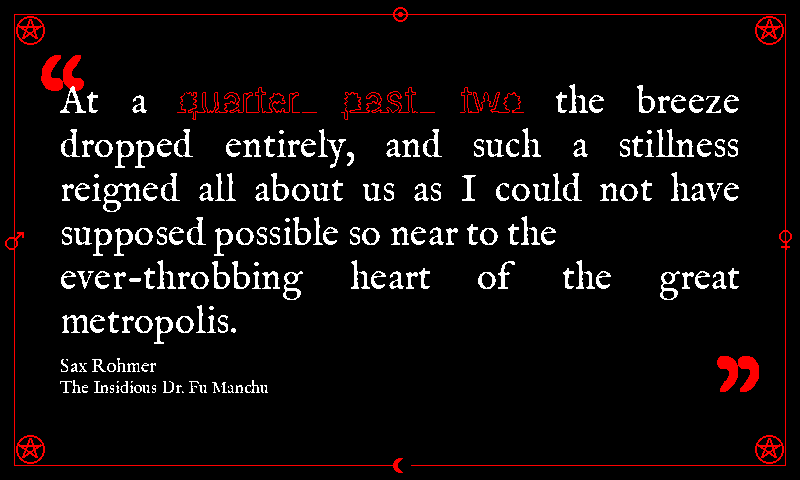
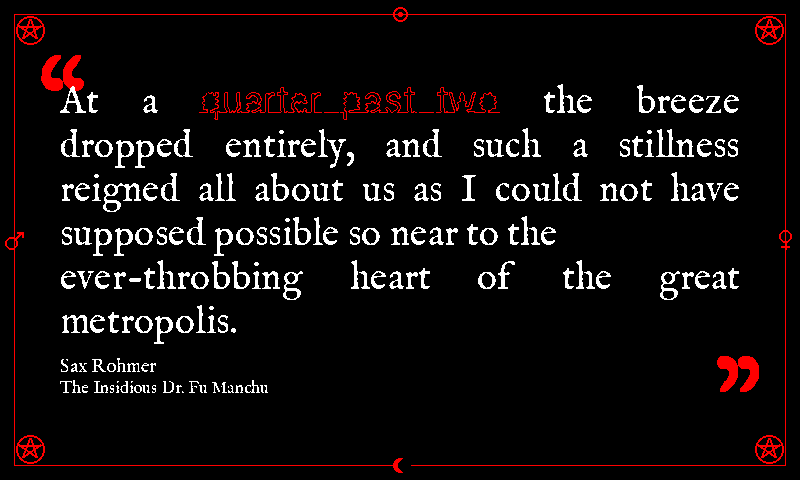
Keep grimoire's matched-phrase spaces rigid on justified lines
When the line containing the bold matched phrase happens to be a
justified line (i.e. non-last, ≤25% slack), the default renderer
contract treats every inter-word space as equally elastic — slack
is divided evenly across all of them, including the spaces *inside*
the matched phrase. For most themes that's invisible because the
matched-phrase face matches the body's space rhythm, but for
grimoire (whose ``quote_bold`` is TFoust — a hollow / shaggy display
face with a very specific inter-letter cadence), the inflated
bold-internal gaps shatter the matched phrase into three
disconnected ink-stained syllables. "Quarter past two" stops
reading as a single inscription and starts reading as three
loose syllables stretched across the line.

Adds ``_THEMES_RIGID_MATCH_SPACING = frozenset({"grimoire"})`` and
extracts the slack-distribution math into a pure helper
``_justify_distribution(space_is_bold, slack, rigid_match)``.
Themes in the set excluding their bold-internal spaces from slack
distribution — those spaces stay at the bold face's natural width
while only the body's inter-word gaps absorb slack. The matched
phrase reads as one visual unit again.

Falls through to ragged-right (empty distribute) when every space
on the line happens to be bold-internal — a long matched phrase
wrapping onto its own line — rather than awkwardly stretching the
bold face's gaps. Every other theme is byte-identical: the loose
branch is the existing default.
[…]

Changed region(s): [[0.4375, 0.1562, 0.75, 0.25], [0.2188, 0.1875, 0.4375, 0.25], [0.1562, 0.1875, 0.1875, 0.25]]

diff --git a/tests/test_render_quote.py b/tests/test_render_quote.py
@@ -1569,6 +1569,114 @@ class TestGrimoireBorder:
             "unknown theme's card_quote_bold didn't fall through to default's quote_bold"
         )
 
+    def test_grimoire_in_rigid_match_spacing_set(self):
+        """``_THEMES_RIGID_MATCH_SPACING`` controls whether a line's
+        bold-internal inter-word gaps absorb justification slack.
+        Grimoire must be in this set; pin it explicitly so a future
+        rename or reshuffle doesn't silently drop the rigid contract
+        and reintroduce the "quarter past two" stretched-across-the-
+        line readability bug."""
+        assert "grimoire" in rq._THEMES_RIGID_MATCH_SPACING
+
+    def test_rigid_match_spacing_keeps_bold_internal_spaces_at_zero(self):
+        """The helper splits slack across only the elastic (non-bold)
+        spaces when ``rigid_match`` is True. Two bold-internal spaces
+        out of five must contribute zero; the remaining three split
+        20 px of slack into 7 / 7 / 6 (base=6, remainder=2 distributed
+        to the first two elastic positions)."""
+        space_is_bold = [False, True, True, False, False]
+        distribute = rq._justify_distribution(space_is_bold, slack=20, rigid_match=True)
+        assert distribute == [7, 0, 0, 7, 6], distribute
+
+    def test_loose_match_spacing_distributes_evenly(self):
+        """Default contract (``rigid_match=False``) treats every space
+        equally — slack=20 across 5 spaces is 4 each."""
+        space_is_bold = [False, True, True, False, False]
+        distribute = rq._justify_distribution(space_is_bold, slack=20, rigid_match=False)
+        assert distribute == [4, 4, 4, 4, 4], distribute
+
+    def test_rigid_match_falls_through_to_ragged_when_all_spaces_bold(self):
+        """If every inter-word space on a line happens to sit inside
+        the matched phrase (a long matched phrase wrapping onto its
+        own line), there's nothing elastic left to absorb slack. The
+        helper returns an empty list so the call site short-circuits
+        to ragged-right rather than awkwardly stretching the bold
+        face's gaps."""
+        space_is_bold = [True, True, True]
+        distribute = rq._justify_distribution(space_is_bold, slack=30, rigid_match=True)
+        assert distribute == [], distribute
+
+    def test_loose_match_falls_through_to_ragged_when_no_spaces(self):
+        """Empty space list (no inter-word gaps on the line) → empty
+        distribution either way; the call site uses
+        ``space_is_bold and …`` to guard."""
+        assert rq._justify_distribution([], slack=15, rigid_match=False) == []
+        assert rq._justify_distribution([], slack=15, rigid_match=True) == []
+
+    def test_grimoire_render_packs_matched_phrase_tighter_than_loose_baseline(self, monkeypatch):
+        """End-to-end pin of the bold-internal-spacing contract.
+        Render the same row twice through grimoire's pipeline — once
+        with the real ``_THEMES_RIGID_MATCH_SPACING`` (containing
+        grimoire), once with that set monkey-patched empty so the
+        loose-justification path runs. Every other variable is
+        identical: same fonts, same layout, same line breaks. The
+        rigid render must pack the bold accent-coloured pixels into a
+        narrower row of x-positions than the loose render — i.e. the
+        rightmost red pixel on the matched-phrase line moves *left*
+        once bold-internal spaces stop absorbing slack."""
+        row = {
+            "display_quote": (
+                "At a quarter past two the breeze dropped entirely, "
+                "and such a stillness reigned all about us."
+            ),
+            "matched_text": "quarter past two",
+            "title": "T",
+            "author": "A",
+            "source_id": "1",
+            "bucket": "h2_quarter_past",
+            "resolved_bucket": "h2_quarter_past",
+            "quality_score": 80,
+            "used_fallback": False,
+        }
+        rigid = rq.render("02:15", row, 800, 480, mode="production", theme="grimoire")
+
+        monkeypatch.setattr(rq, "_THEMES_RIGID_MATCH_SPACING", frozenset())
+        loose = rq.render("02:15", row, 800, 480, mode="production", theme="grimoire")
+
+        red = rq.SPECTRA6["red"]
+
+        def matched_phrase_span(img) -> tuple[int, int]:
+            """Return (leftmost, rightmost) x-coordinate of the red
+            band that holds the matched phrase. We skip the canvas
+            border (outer red rectangle at y in {14, 465}) and the
+            mid-edge sigils (centred at x=400 with y around 14 / 465 /
+            240) by sampling only the dense quote-body region
+            (y in [80, 380]) and picking the row with the most red
+            pixels — the matched-phrase line."""
+            best_row = (0, 0, 0)  # (count, left, right)
+            for y in range(80, 380):
+                red_xs = [x for x in range(rq.SIDE_MARGIN, 800 - rq.SIDE_MARGIN) if img.getpixel((x, y)) == red]
+                if len(red_xs) > best_row[0]:
+                    best_row = (len(red_xs), red_xs[0], red_xs[-1])
+            return best_row[1], best_row[2]
+
+        rigid_l, rigid_r = matched_phrase_span(rigid)
+        loose_l, loose_r = matched_phrase_span(loose)
+        rigid_span = rigid_r - rigid_l
+        loose_span = loose_r - loose_l
+        # Rigid run must occupy strictly fewer x-pixels than the loose
+        # baseline on this particular row (the matched-phrase line is
+        # justified by construction — the test quote was sized so the
+        # phrase lands on a non-last 75%+-full line). At least 4 px
+        # narrower for the typical two-bold-spaces / ~30 px-of-slack
+        # case; 1 px is too tight (PIL line-break math at the wrap
+        # boundary can shift by ±1 due to the elastic-only base+1
+        # distribution).
+        assert rigid_span + 4 <= loose_span, (
+            f"rigid bold-phrase span {rigid_span}px did not pack tighter than "
+            f"loose baseline {loose_span}px — bold-internal spaces are still elastic"
+        )
+
     def test_grimoire_debug_label_clears_top_right_pentagram(self):
         """The ``DEBUG MODE`` banner must not overlap the TR inscribed
         pentagram. The ring's leftmost pixel sits at

diff --git a/render_quote.py b/render_quote.py
@@ -3103,6 +3103,56 @@ _DEBUG_LABEL_RIGHT_INSET = {
                         # the horizontal inset is what does the work.
 }
 
+# Themes whose matched-phrase (``quote_bold``) face has a distinctive
+# silhouette that breaks if its inter-word gaps are inflated by
+# justification slack. The default per-theme contract is "every inter-
+# word space on a justified line is equally elastic — slack is divided
+# evenly across them"; themes in this set treat the matched-phrase
+# spaces as *rigid* (kept at the bold face's natural space width) so
+# only the body's inter-word gaps absorb slack. Without the seam,
+# TFoust's "quarter past two" on a justified line in ``grimoire`` reads
+# as three disconnected ink-stained syllables rather than a single
+# inscription — the hollow / shaggy character of the face survives
+# only at its natural inter-letter rhythm. Strict superset is fine:
+# the ``score_row`` / wrap / fit pipeline does not depend on this set.
+_THEMES_RIGID_MATCH_SPACING: frozenset[str] = frozenset({"grimoire"})
+
+
+def _justify_distribution(space_is_bold: list[bool], slack: int, rigid_match: bool) -> list[int]:
+    """Return the per-space slack contribution for a justified line.
+
+    ``space_is_bold`` is the list of inter-word spaces on the line, in
+    visual order, with each entry telling whether the space sits
+    inside the bold matched phrase. ``slack`` is the leftover pixel
+    width to redistribute. When ``rigid_match`` is True, bold-internal
+    spaces are kept at the bold face's natural width (contribution 0)
+    and the full slack is split evenly across only the body's
+    inter-word gaps; otherwise every space is equally elastic, which
+    is the renderer's default contract. The returned list has the
+    same length as ``space_is_bold`` so the call site can iterate
+    over it lock-step with the line's space occurrences.
+
+    Returns an empty list when there's no elastic space to absorb
+    slack (e.g. ``rigid_match`` is True and every space on the line
+    happens to sit inside the matched phrase) — the call site falls
+    through to the unjustified ragged-right layout, same path the
+    "slack > 25% of max_width" guard takes.
+    """
+    elastic_count = sum(1 for is_bold in space_is_bold if not (rigid_match and is_bold))
+    if elastic_count == 0:
+        return []
+    base = slack // elastic_count
+    remainder = slack - base * elastic_count
+    distribute: list[int] = []
+    elastic_seen = 0
+    for is_bold in space_is_bold:
+        if rigid_match and is_bold:
+            distribute.append(0)
+        else:
+            distribute.append(base + (1 if elastic_seen < remainder else 0))
+            elastic_seen += 1
+    return distribute
+
 
 def snap_image_to_palette(image: Image.Image, palette: list[tuple[int, int, int]]) -> Image.Image:
     snapped = Image.new("RGB", image.size)
@@ -3424,17 +3474,21 @@ def render(time_str: str, quote_row: dict, width: int, height: int, mode: str = 
             bbox = draw.textbbox((0, 0), chunk, font=font)
             current_width += bbox[2] - bbox[0]
 
-        space_slots = sum(1 for chunk, _ in drawable if chunk == " ")
+        # Themes in ``_THEMES_RIGID_MATCH_SPACING`` exclude the
+        # bold-internal inter-word gaps from slack distribution so the
+        # matched phrase keeps its face's natural rhythm on a justified
+        # line. Default for every other theme: all inter-word spaces
+        # are equally elastic.
+        space_is_bold = [is_bold for chunk, is_bold in drawable if chunk == " "]
+        rigid_match = theme in _THEMES_RIGID_MATCH_SPACING
         is_last = line_index == total_lines - 1
         slack = layout["max_width"] - current_width
 
-        distribute = []
+        distribute: list[int] = []
         # Only full-justify when the line is at least 75% full; looser lines look
         # worse justified than ragged-right due to excessive inter-word gaps.
-        if not is_last and space_slots > 0 and 0 < slack <= layout["max_width"] * 0.25:
-            base = slack // space_slots
-            remainder = slack - base * space_slots
-            distribute = [base + (1 if i < remainder else 0) for i in range(space_slots)]
+        if not is_last and space_is_bold and 0 < slack <= layout["max_width"] * 0.25:
+            distribute = _justify_distribution(space_is_bold, slack, rigid_match)
 
         x = (width - layout["max_width"]) // 2
         space_idx = 0
